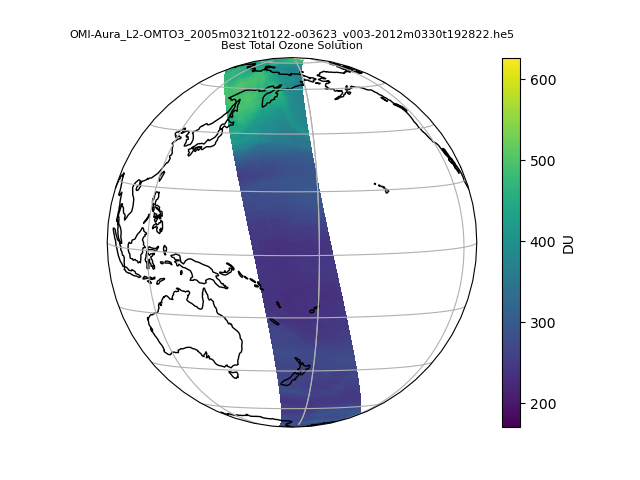
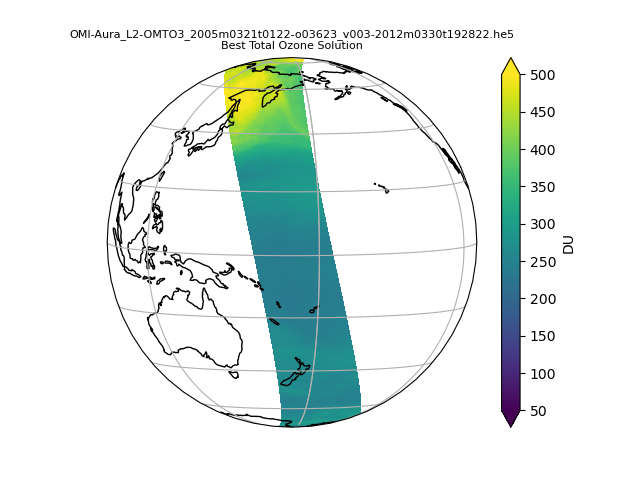
feat(GESDISC): set DU range between 50 and 500
fix #52

Changed region(s): [[0.3438, 0.0938, 0.5625, 0.9062], [0.7812, 0.0938, 0.875, 0.9062]]

diff --git a/MORE/GESDISC/OMI/OMI-Aura_L2-OMTO3_2005m0621t0014-o04962_v003-2012m0330t195928.he5.py b/MORE/GESDISC/OMI/OMI-Aura_L2-OMTO3_2005m0621t0014-o04962_v003-2012m0330t195928.he5.py
@@ -11,7 +11,7 @@ contact us at eoshelp@hdfgroup.org or post it at the HDF-EOS Forum
 
 Usage: save this script and run
 
- $python OMI-Aura_L2-OMTO3_2005m0321t0122-o03623_v003-2012m0330t192822.he5.py
+ $python OMI-Aura_L2-OMTO3_2005m0621t0014-o04962_v003-2012m0330t195928.he5.py
 
 The HDF file must be in your current working directory.
 
@@ -27,7 +27,7 @@ import numpy as np
 
 import h5py
 
-FILE_NAME = "OMI-Aura_L2-OMTO3_2005m0321t0122-o03623_v003-2012m0330t192822.he5"
+FILE_NAME = "OMI-Aura_L2-OMTO3_2005m0621t0014-o04962_v003-2012m0330t195928.he5"
 path = "/HDFEOS/SWATHS/OMI Column Amount O3/Data Fields/"
 DATAFIELD_NAME = path + "ColumnAmountO3"
 with h5py.File(FILE_NAME, mode="r") as f:
@@ -55,26 +55,37 @@ with h5py.File(FILE_NAME, mode="r") as f:
     datam = np.ma.masked_where(np.isnan(data), data)
 
     # Find middle location for center of map.
-    lat_m = latitude[int(latitude.shape[0] / 2), int(latitude.shape[1] / 2)]
-    lon_m = longitude[int(longitude.shape[0] / 2), int(longitude.shape[1] / 2)]
+    # lat_m = np.nanmean(latitude)
+    # lon_m = np.nanmean(longitude)
+
+    # Or use North Pole.
+    lat_m = 90
+    lon_m = 0
 
     # Use ortho projection.
     orth = ccrs.Orthographic(
         central_longitude=lon_m, central_latitude=lat_m, globe=None
     )
     ax = plt.axes(projection=orth)
+
     # Remove the following to see zoom-in view.
     ax.set_global()
+
     p = plt.pcolormesh(
-        longitude, latitude, datam, shading="auto", transform=ccrs.PlateCarree(),
-        vmin=50, vmax=500
+        longitude,
+        latitude,
+        datam,
+        shading="auto",
+        transform=ccrs.PlateCarree(),
+        vmin=50,
+        vmax=500
     )
 
     # Gridline with draw_labels=True doesn't work on ortho.
     # ax.gridlines(draw_labels=True)
     ax.gridlines()
     ax.coastlines()
-    cb = plt.colorbar(p, extend="both")
+    cb = plt.colorbar(p, fraction=0.02, pad=0.02, extend="both")
     cb.set_label(units)
 
     basename = os.path.basename(FILE_NAME)

diff --git a/MORE/GESDISC/OMI/OMI-Aura_L2-OMTO3_2005m1221t0007-o07627_v003-2012m0330t210921.he5.py b/MORE/GESDISC/OMI/OMI-Aura_L2-OMTO3_2005m1221t0007-o07627_v003-2012m0330t210921.he5.py
@@ -70,14 +70,15 @@ with h5py.File(FILE_NAME, mode="r") as f:
     # Remove the following to see zoom-in view.
     ax.set_global()
     p = plt.pcolormesh(
-        longitude, latitude, datam, shading="auto", transform=ccrs.PlateCarree()
+        longitude, latitude, datam, shading="auto", transform=ccrs.PlateCarree(),
+        vmin=50, vmax=500        
     )
 
     # Gridline with draw_labels=True doesn't work on ortho.
     # ax.gridlines(draw_labels=True)
     ax.gridlines()
     ax.coastlines()
-    cb = plt.colorbar(p)
+    cb = plt.colorbar(p, extend="both")
     cb.set_label(units)
 
     basename = os.path.basename(FILE_NAME)
